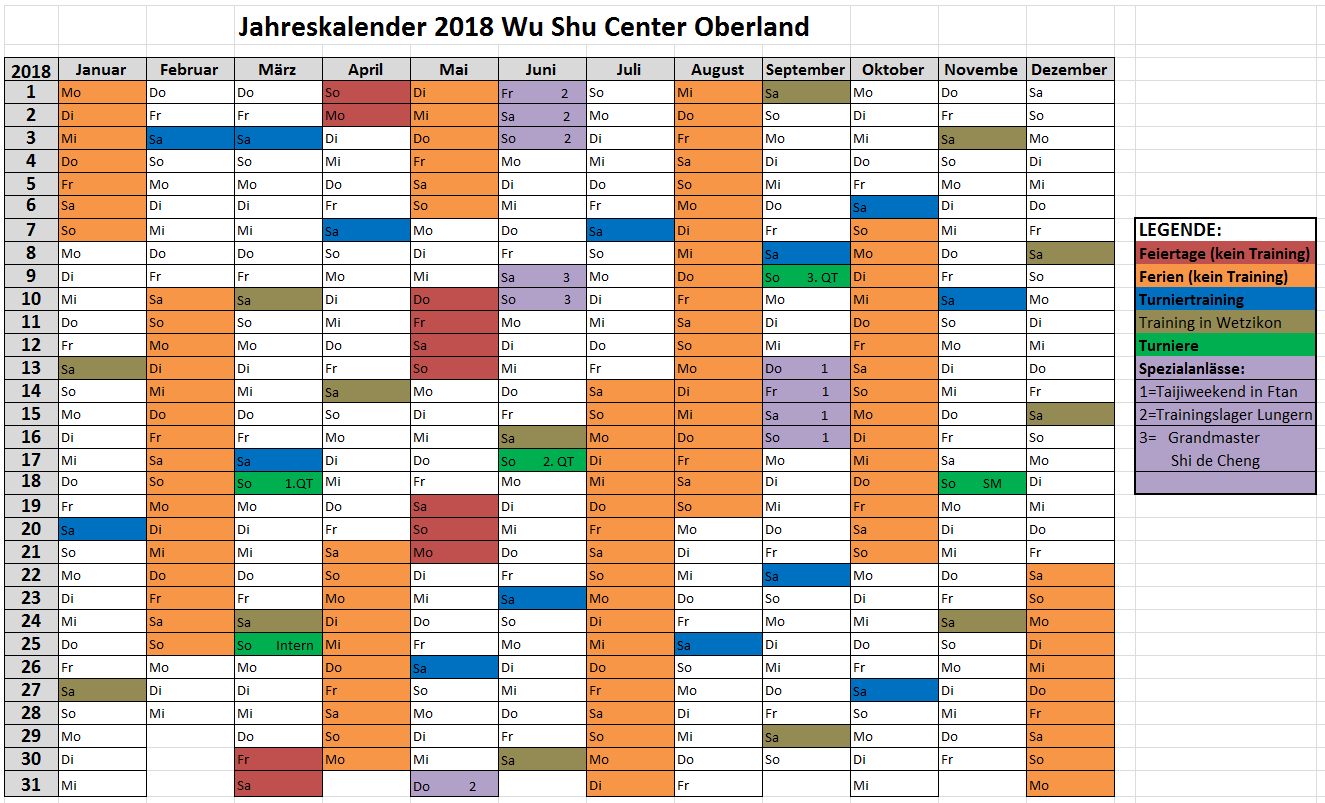
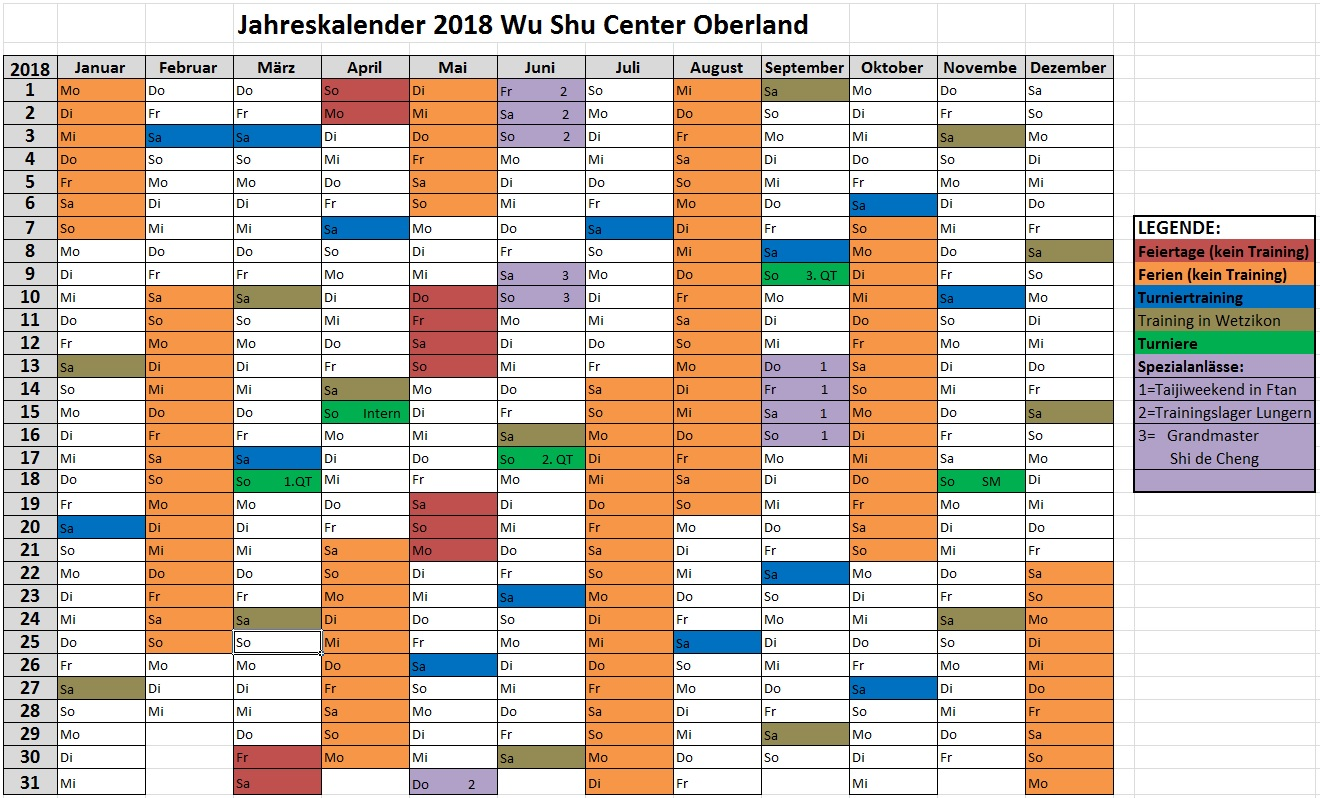
agenda

Changed region(s): [[0.0, 0.0, 1.0, 1.0]]

diff --git a/aktuell/index.md b/aktuell/index.md
@@ -3,6 +3,11 @@ layout: default
 title: News
 ---
 
+## Turnierinfos
+
+WICHTIG: Das Turnier ist verschoben worden und findet erst am 15.4.2018 statt!!!
+<br>
+
 ## Grandmaster Shi de Cheng
 
 Am 9.6.2018 und 10.6.2018 besucht uns Grossmeister Shi de Cheng ein weiteres Mal! Wer Interesse hat teilzunehmen meldet sich bitte bei Marco oder Chris an.
